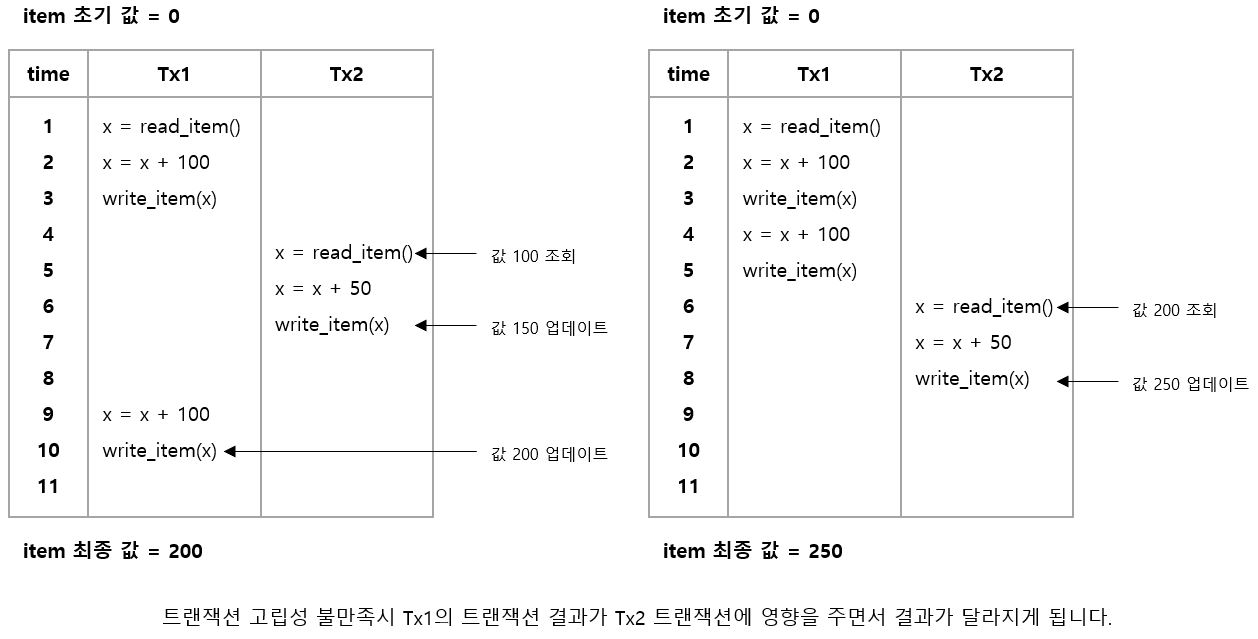
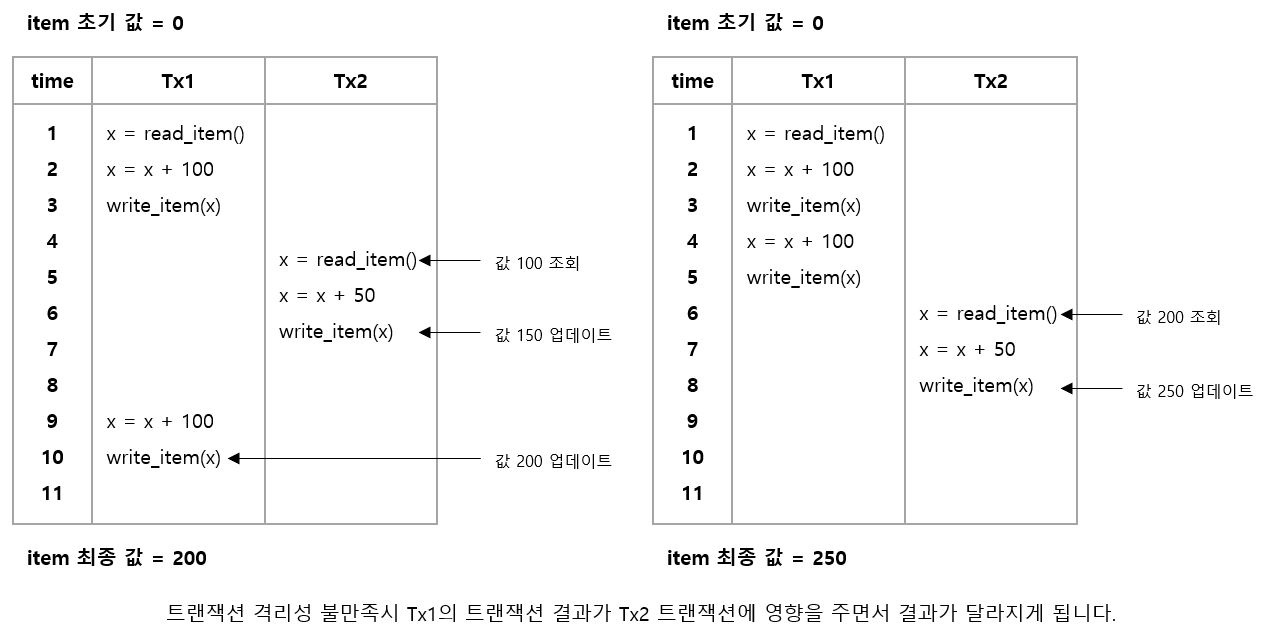
2021-01-25 update

diff --git a/_posts/2021-01-25-transcation-isolation.md b/_posts/2021-01-25-transcation-isolation.md
@@ -32,13 +32,13 @@ last_modified_at: 2021-01-25T00:00:00
 - 트랜잭션을 마친 후의 DB 상태는 트랜잭션 시작 전 상태와 동일하게 정상 상태를 유지해야 합니다.
 - 트랜잭션 수행 후에도 데이터 모델의 제약 조건(기본키, 외래키, 도메인, 도메인 제약조건 등)을 만족하게 함으로써 일관성을 보장할 수 있습니다.
 
-### Isolation (격리성)
+### Isolation (고립성)
 - 트랜잭션 수행시 다른 트랜잭션의 작업이 끼어들지 못하도록 보장하는 것을 말합니다.
 - 즉, 트랜잭션끼리는 서로를 간섭할 수 없습니다.
-- 격리성 보장이 되지 않는다면 병행 트랜잭션에서 수행 결과가 매번 달라질 수 있습니다.
-- 격리성 보장을 위해 LOCK/UNLOCK 메커니즘을 사용합니다.
+- 고립성 보장이 되지 않는다면 병행 트랜잭션에서 수행 결과가 매번 달라질 수 있습니다.
+- 고립성 보장을 위해 LOCK/UNLOCK 메커니즘을 사용합니다.
 
-#### - 격리성을 보장하지 못하는 경우 발생하는 데이터 불일치 CASE
+#### - 고립성을 보장하지 못하는 경우 발생하는 데이터 불일치 CASE
 <p align="center"><img src="/images/transcation-acid-1.JPG"></p>
 
 ### Durability (지속성)
@@ -48,7 +48,7 @@ last_modified_at: 2021-01-25T00:00:00
 ## OPINION
 [참고 블로그][acid-blogLink]가 너무 잘 정리되어 있어서 내용 대부분이 유사합니다. 
 직접 정리하지 못한만큼 이 글을 자주 복습하여 저의 지식으로 만드는 과정이 필요할 것 같습니다. 
-격리성과 관련한 구체적인 LOCK/UNLOCK 메커니즘에 대한 내용에 대해 알고 싶으시다면 [참고 블로그][acid-blogLink]를 방문하시면 됩니다.  
+고립성과 관련한 구체적인 LOCK/UNLOCK 메커니즘에 대한 내용에 대해 알고 싶으시다면 [참고 블로그][acid-blogLink]를 방문하시면 됩니다.  
 
 #### 참조글
 - <https://victorydntmd.tistory.com/129>
